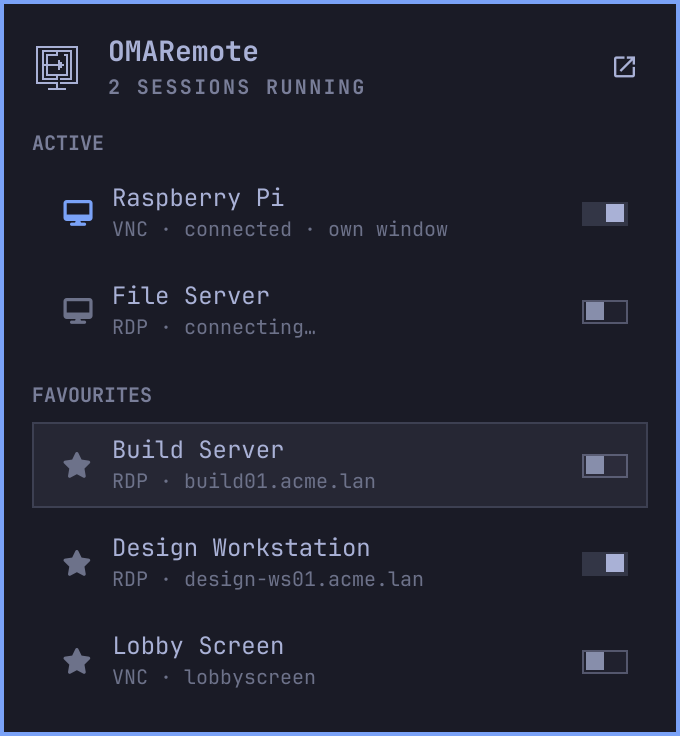
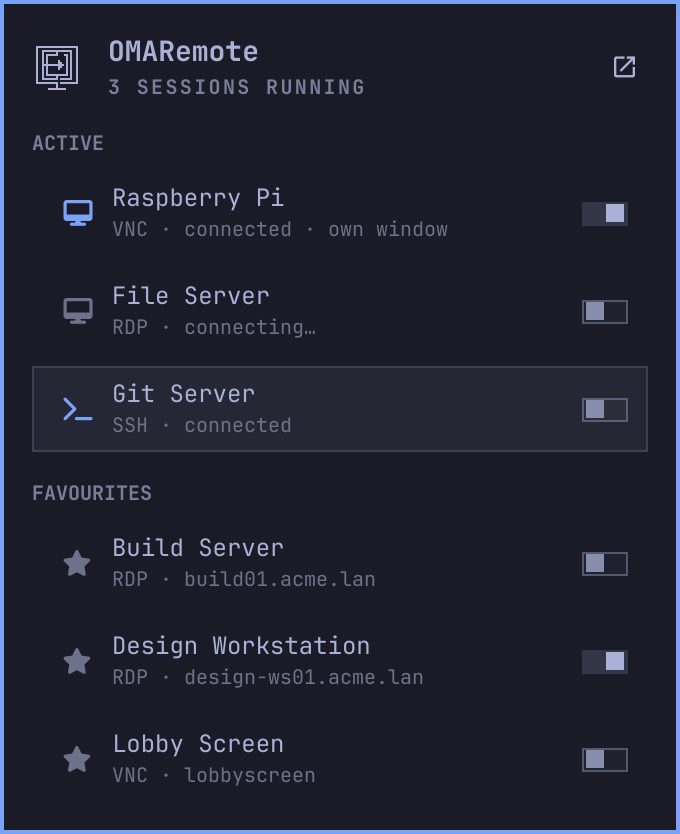
Release 0.3.4: SSH sessions
OMARemote 0.2.0 connects over SSH as well. Running SSH sessions get a
terminal glyph, as in OMARemote itself; the install row and the
descriptions name SSH next to RDP and VNC. The preview gains an SSH
sample session.

diff --git a/Model.js b/Model.js
@@ -130,6 +130,11 @@ function openCommand(connectionId, inWindow) {
   return ["uwsm-app", "--", "omaremote", "open"].concat(inWindow ? ["--window"] : [], [String(connectionId)])
 }
 
+// The glyph for a running session, as OMARemote shows it: a terminal for SSH, a monitor otherwise.
+function sessionGlyph(session) {
+  return String((session && session.protocol) || "").toLowerCase() === "ssh" ? "\uf120" : "\uf108"
+}
+
 function sessionMeta(session) {
   var state = session.state === "connecting" ? "connecting…" : "connected"
   return protocolLabel(session) + " · " + state + (inOwnWindow(session) ? " · own window" : "")
@@ -170,7 +175,7 @@ if (typeof module !== "undefined")
     parseVersion: parseVersion, compareVersions: compareVersions, versionAtLeast: versionAtLeast,
     isActive: isActive, activeSessions: activeSessions, favourites: favourites,
     parseConnections: parseConnections, hasFavourites: hasFavourites, parseSessions: parseSessions,
-    sessionMeta: sessionMeta, favouriteMeta: favouriteMeta, summary: summary,
+    sessionGlyph: sessionGlyph, sessionMeta: sessionMeta, favouriteMeta: favouriteMeta, summary: summary,
     installCommand: installCommand, openCommand: openCommand,
     windowConnections: windowConnections, opensInWindow: opensInWindow, setOpensInWindow: setOpensInWindow
   }

diff --git a/tests/preview/Preview.qml b/tests/preview/Preview.qml
@@ -30,7 +30,8 @@ Item {
     property bool readError: stage.readError
     property var active: stage.missing ? [] : [
       { connection: "s-pi", name: "Raspberry Pi", protocol: "vnc", state: "connected", tab: true, view: "window" },
-      { connection: "s-files", name: "File Server", protocol: "rdp", state: "connecting", tab: true }
+      { connection: "s-files", name: "File Server", protocol: "rdp", state: "connecting", tab: true },
+      { connection: "s-git", name: "Git Server", protocol: "ssh", state: "connected", tab: true, view: "tab" }
     ]
     property var favourites: stage.missing ? [] : [
       { id: "s-build", name: "Build Server", protocol: "rdp", host: "build01.acme.lan" },
@@ -49,7 +50,7 @@ Item {
     property color foreground: Color.foreground
     property color dim: Qt.darker(Color.foreground, 1.55)
     property string fontFamily: Style.font.family
-    property string summary: stage.missing ? "Not installed" : stage.readError ? "Sessions unknown" : "2 sessions running"
+    property string summary: stage.missing ? "Not installed" : stage.readError ? "Sessions unknown" : "3 sessions running"
     property bool busy: !stage.missing
     property bool cursorActive: !stage.readError
     property var windowConnections: ["s-pi", "s-design"]

diff --git a/tests/model.test.js b/tests/model.test.js
@@ -73,6 +73,11 @@ test("row and hero text", () => {
   assert.strictEqual(Model.sessionMeta({ ...base, tab: true, view: "window", viewer: 4242 }), "VNC · connected · own window")
   assert.strictEqual(Model.sessionMeta({ ...base, tab: true, view: "tab", viewer: null }), "VNC · connected")
   assert.strictEqual(Model.sessionMeta({ ...base, tab: false, view: "window", viewer: null }), "VNC · connected · own window")
+  assert.strictEqual(Model.sessionMeta({ protocol: "ssh", state: "connected", tab: true, view: "tab" }), "SSH · connected")
+  // SSH gets a terminal, as in OMARemote; anything else (or nothing) the monitor.
+  assert.strictEqual(Model.sessionGlyph({ protocol: "ssh" }), "")
+  assert.strictEqual(Model.sessionGlyph({ protocol: "vnc" }), "")
+  assert.strictEqual(Model.sessionGlyph({}), "")
   assert.strictEqual(Model.favouriteMeta(connections[1]), "RDP · files.acme.lan")
   assert.strictEqual(Model.summary(false, false, false, 0), "Not installed")
   assert.strictEqual(Model.summary(true, false, false, 0), "Needs a newer OMARemote")

diff --git a/PanelBody.qml b/PanelBody.qml
@@ -70,7 +70,7 @@ Column {
     subtitle: host.remote.installing ? "Finish in the terminal; this updates by itself"
       : host.remote.compatible ? "Needs " + host.remote.windowVersion + " for own windows"
       : host.remote.installed ? "This plugin needs " + host.remote.minimumVersion + " or newer (you have " + host.remote.version + ")"
-      : "RDP and VNC remote desktops, in tabs"
+      : "Remote desktops (RDP, VNC) and SSH, in tabs"
   }
 
   // omaremote-session failed: say so rather than show an empty or stale list as if it were true.
@@ -105,7 +105,7 @@ Column {
         showSwitch: host.remote.canOpenInWindow
         switchOn: host.opensInWindow(modelData.connection)
         switchHint: column.windowHint(modelData.connection)
-        glyph: ""
+        glyph: Model.sessionGlyph(modelData)
         glyphColor: modelData.state === "connected" ? Color.accent : host.dim
         title: modelData.name || modelData.host || ""
         subtitle: Model.sessionMeta(modelData)

diff --git a/README.md b/README.md
@@ -1,6 +1,7 @@
 # OMARemote for the Omarchy bar
 
-Your [OMARemote](https://github.com/RFdeGroot/OMARemote) remote desktops in the Omarchy bar.
+Your [OMARemote](https://github.com/RFdeGroot/OMARemote) remote desktops (RDP, VNC) and SSH
+sessions in the Omarchy bar.
 Running sessions and favourite connections are one click away: click a running session to bring
 it forward, click a favourite to connect it in a tab. OMARemote starts when it is not open yet.
 
